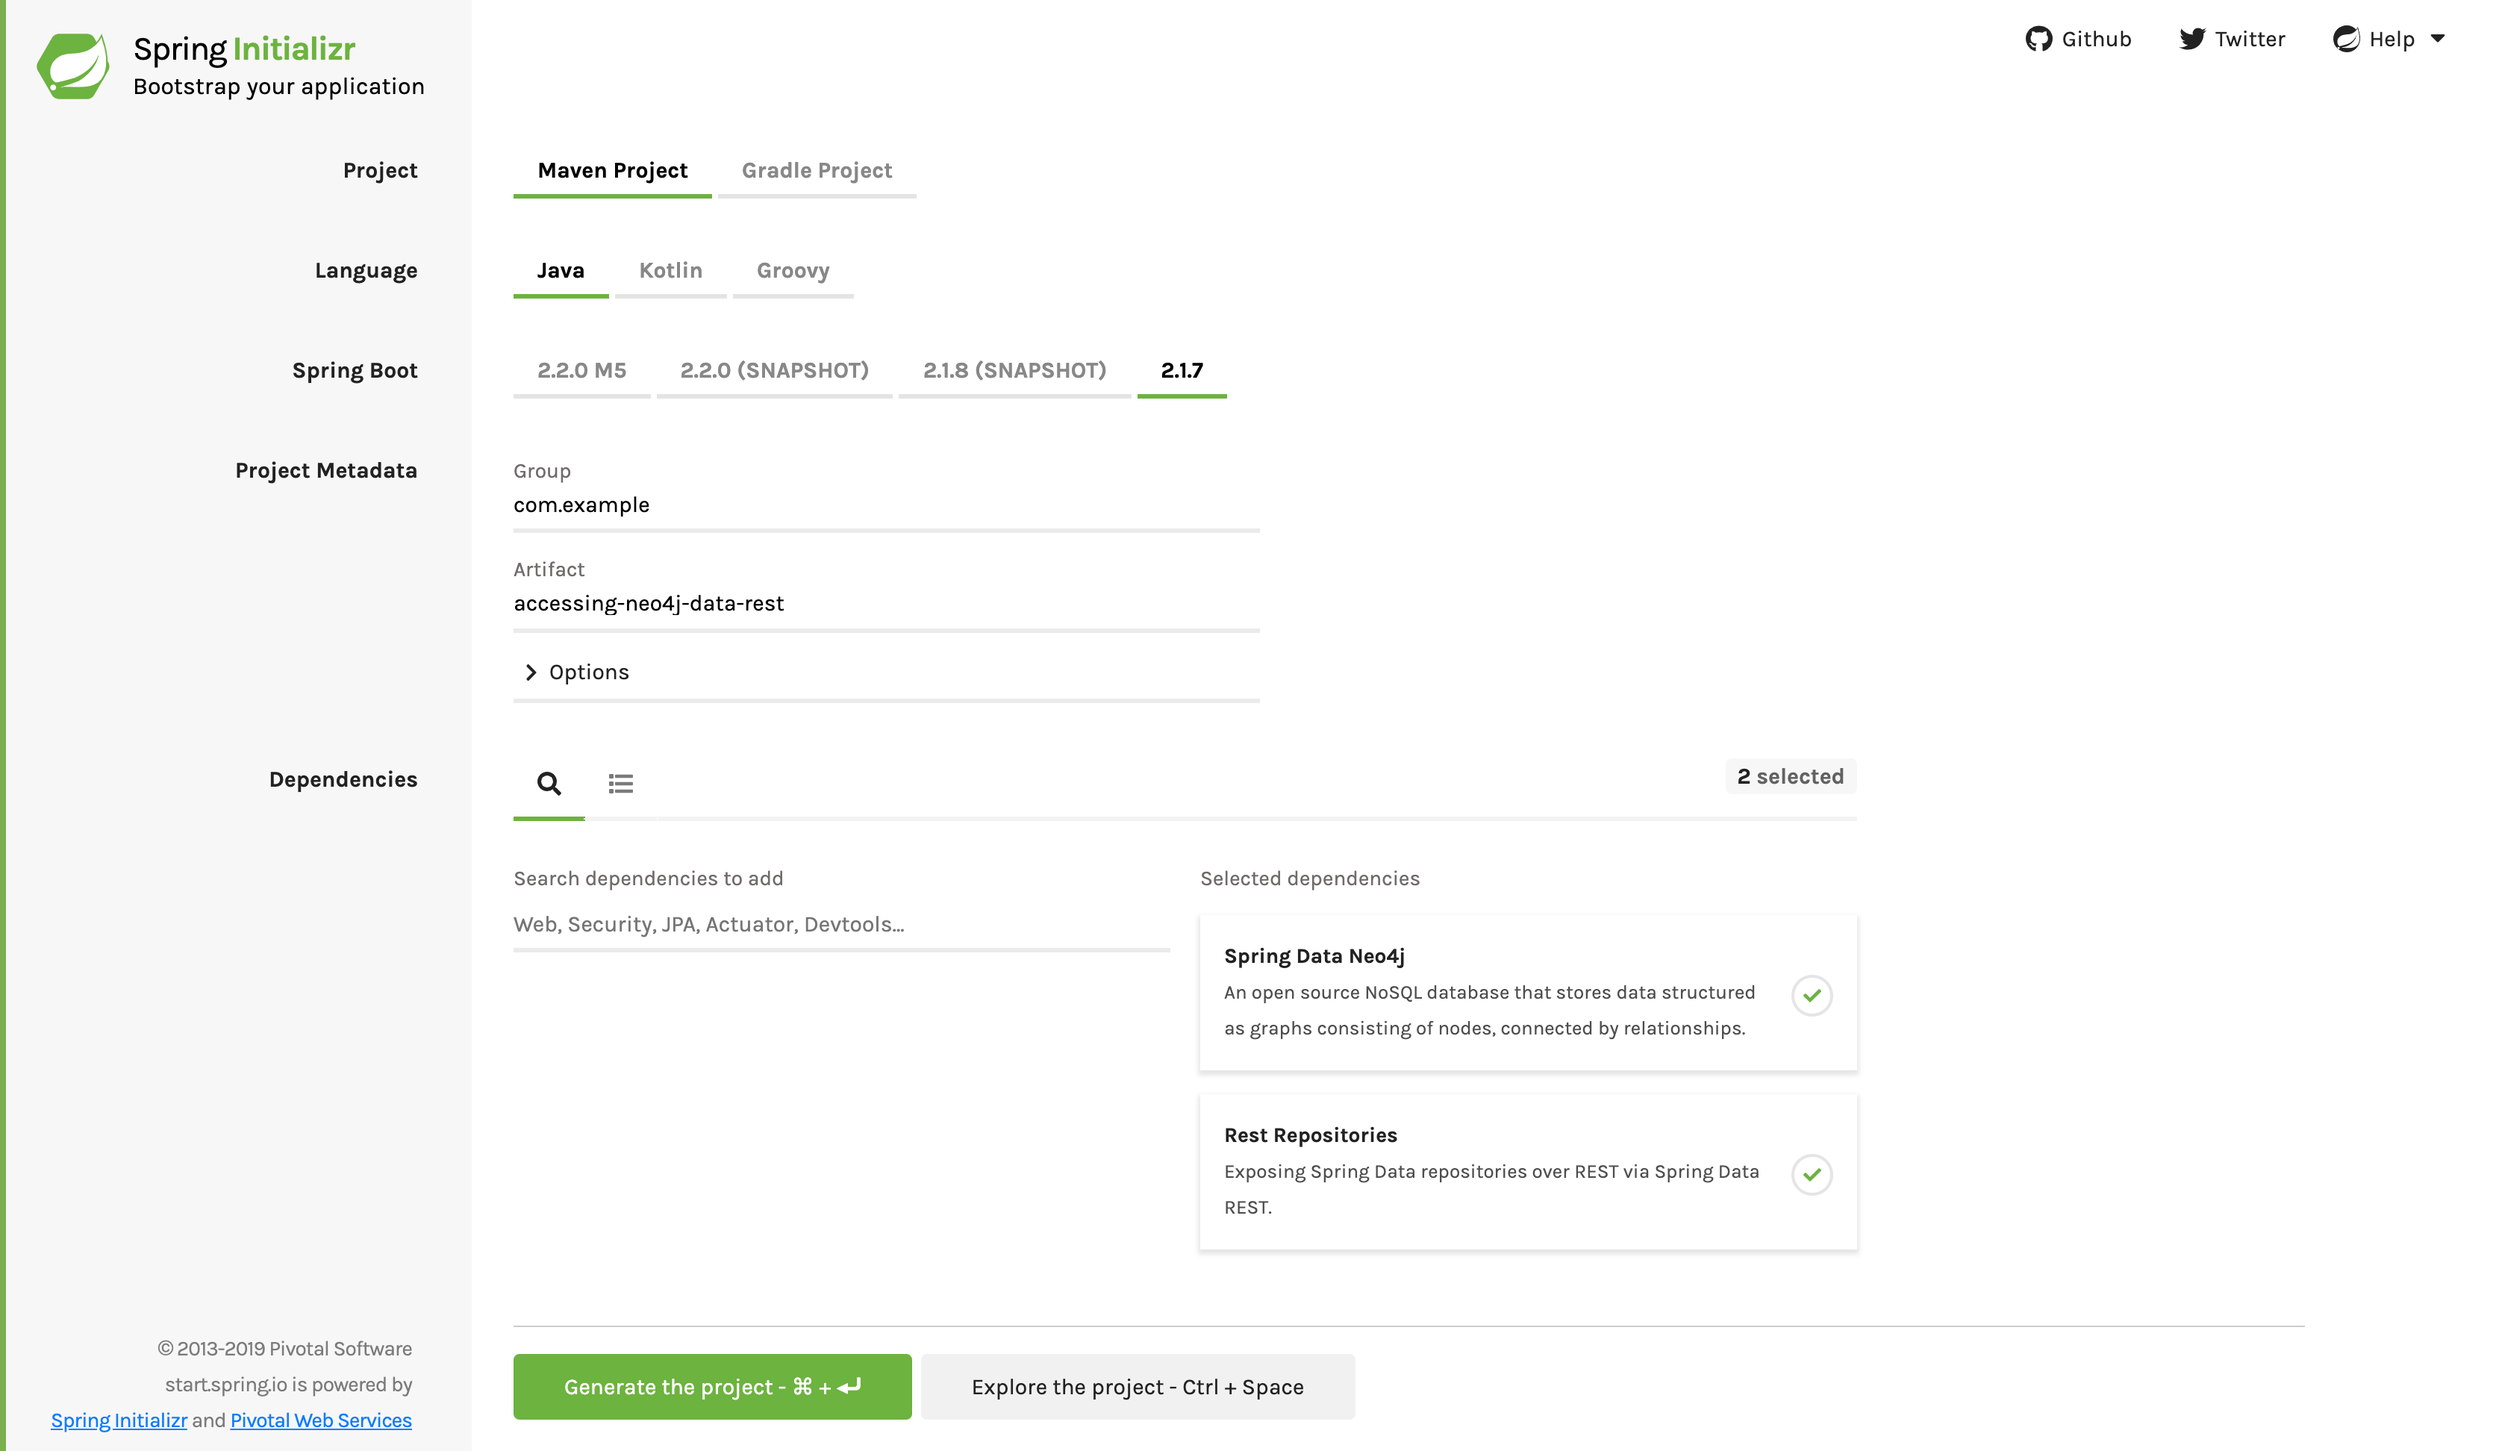
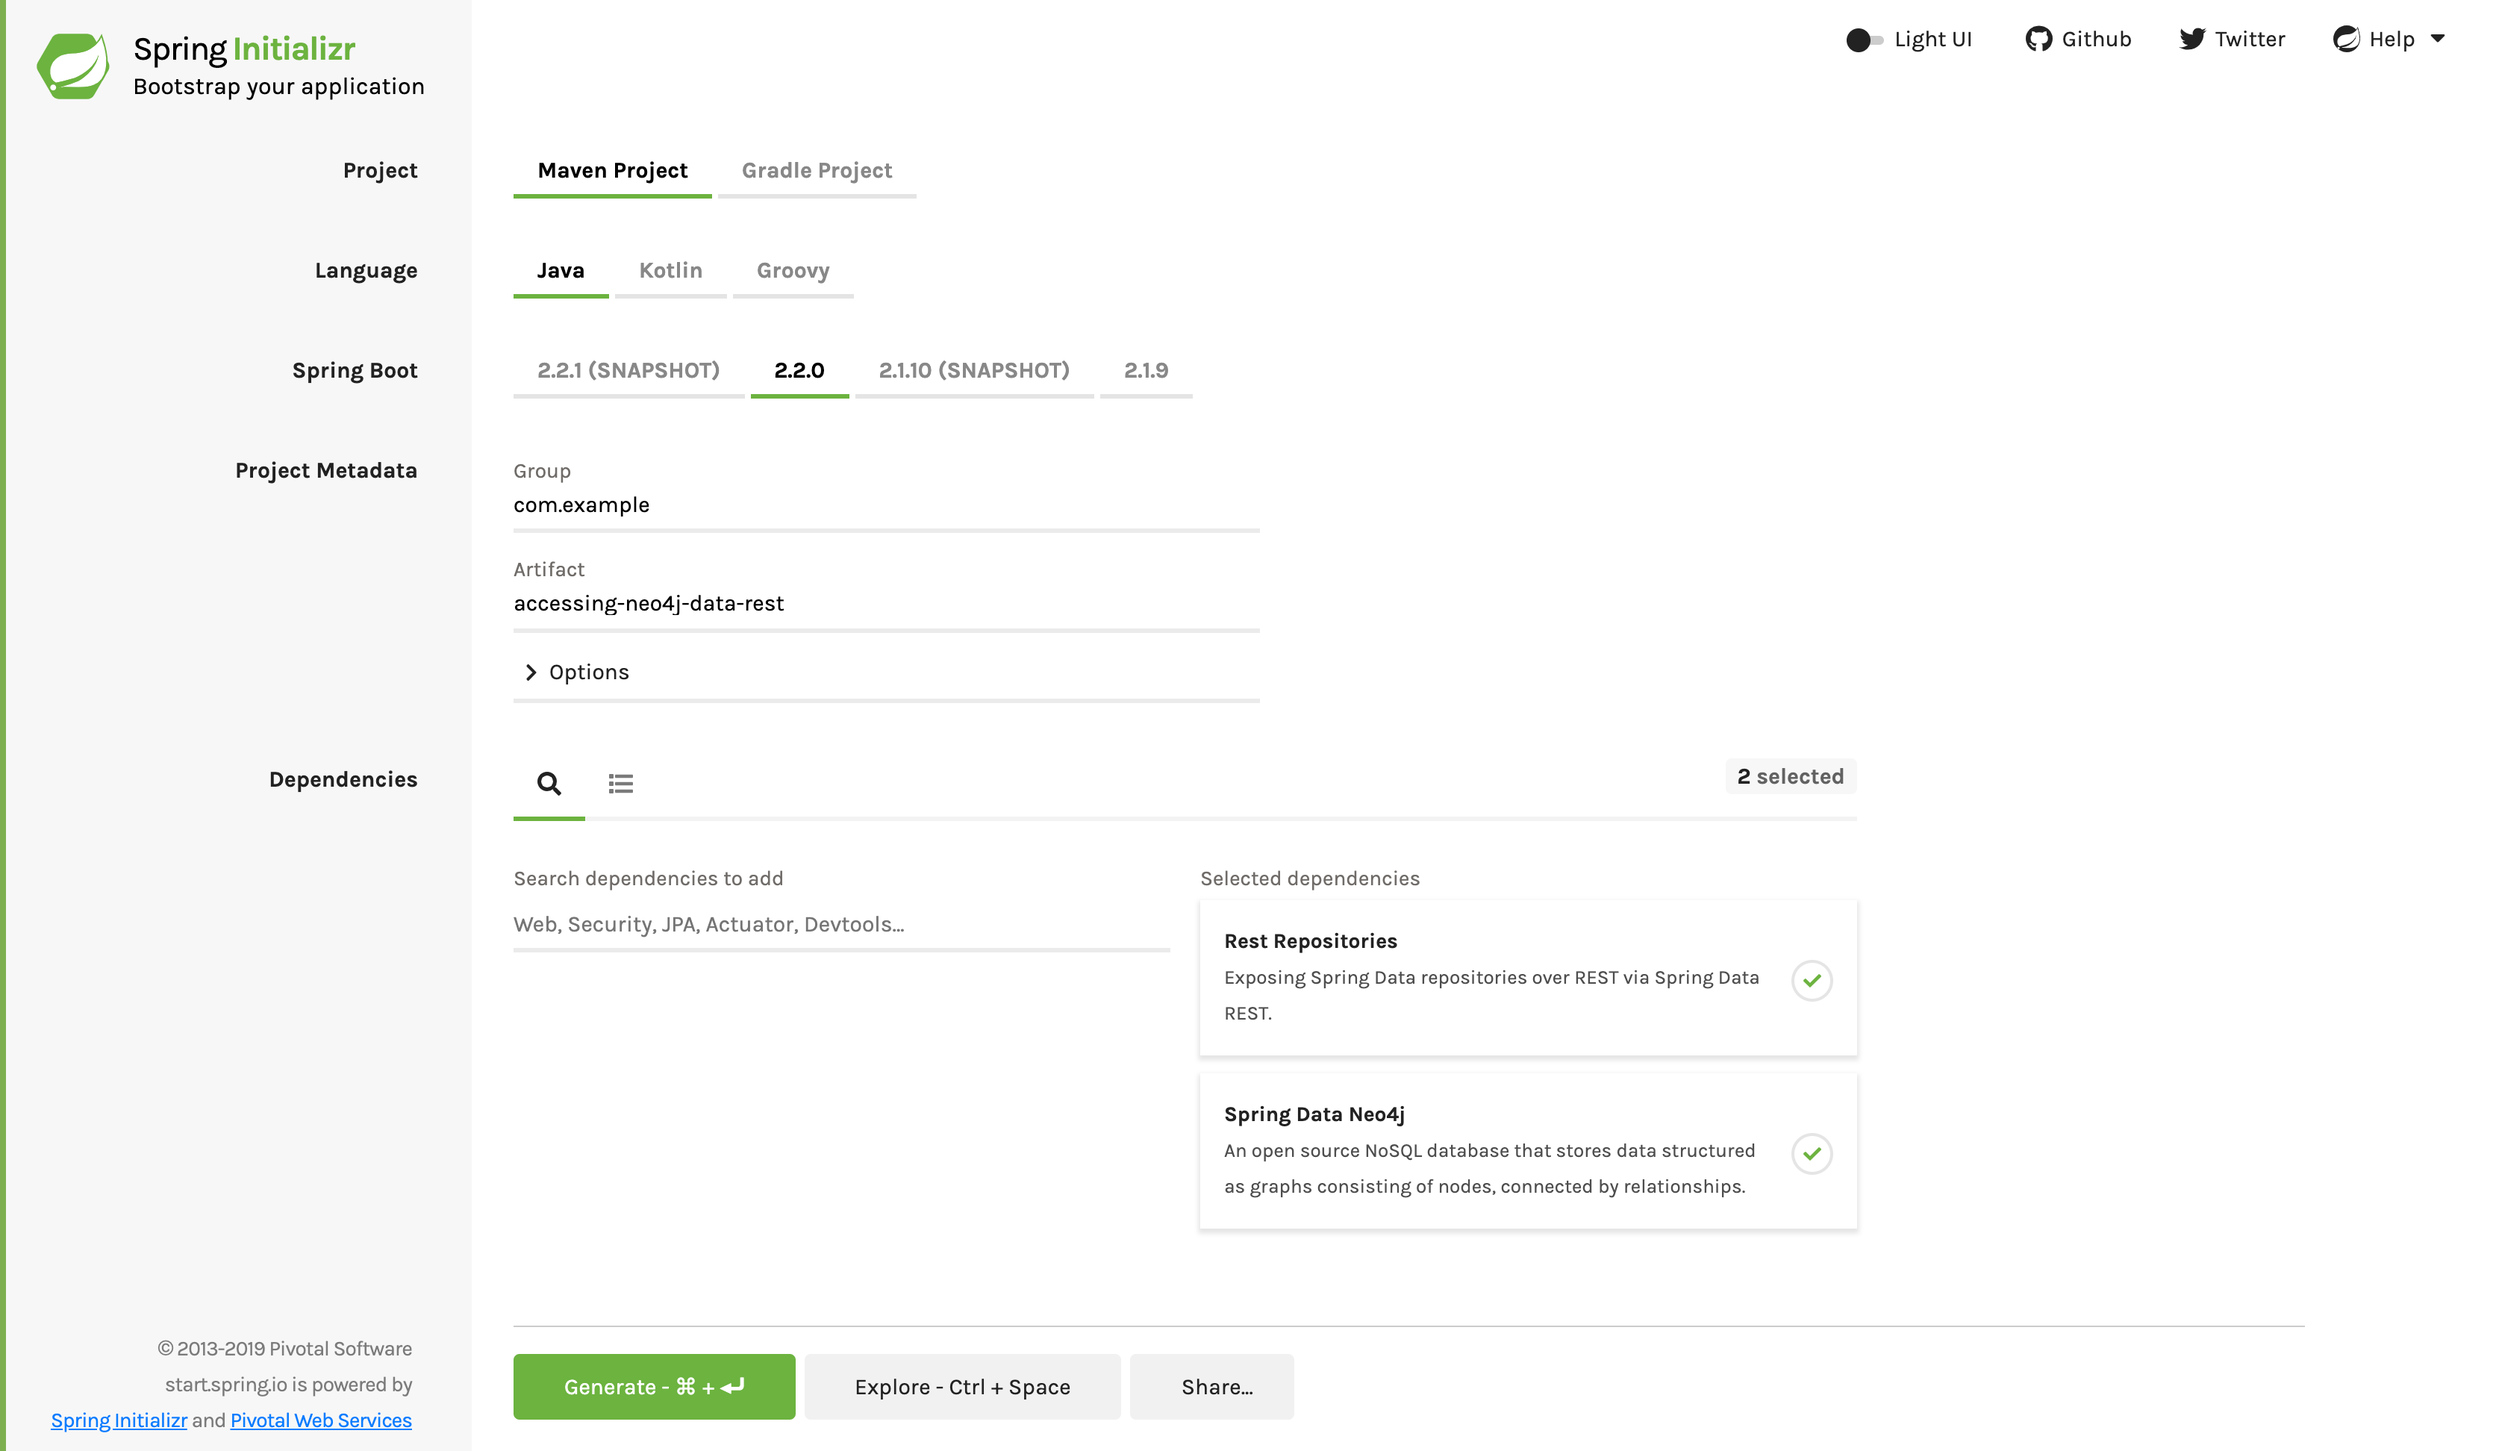
Upgrade to Spring Boot 2.2
I upgraded to Spring Boot 2.2. That required upgrading JUnit to version 5 and upgrading the Gradle wrappers.

diff --git a/complete/src/test/java/com/example/accessingneo4jdatarest/AccessingNeo4jDataRestApplicationTests.java b/complete/src/test/java/com/example/accessingneo4jdatarest/AccessingNeo4jDataRestApplicationTests.java
@@ -16,16 +16,14 @@
 
 package com.example.accessingneo4jdatarest;
 
-import org.junit.Before;
-import org.junit.Test;
-import org.junit.runner.RunWith;
+import org.junit.jupiter.api.BeforeEach;
+import org.junit.jupiter.api.Test;
 
 import org.springframework.beans.factory.annotation.Autowired;
 import org.springframework.boot.autoconfigure.data.neo4j.Neo4jDataAutoConfiguration;
 import org.springframework.boot.test.autoconfigure.web.servlet.AutoConfigureMockMvc;
 import org.springframework.boot.test.context.SpringBootTest;
 import org.springframework.context.annotation.Import;
-import org.springframework.test.context.junit4.SpringRunner;
 import org.springframework.test.web.servlet.MockMvc;
 import org.springframework.test.web.servlet.MvcResult;
 
@@ -34,7 +32,6 @@ import static org.springframework.test.web.servlet.request.MockMvcRequestBuilder
 import static org.springframework.test.web.servlet.result.MockMvcResultHandlers.*;
 import static org.springframework.test.web.servlet.result.MockMvcResultMatchers.*;
 
-@RunWith(SpringRunner.class)
 @SpringBootTest
 @AutoConfigureMockMvc
 @Import(Neo4jDataAutoConfiguration.class)
@@ -46,7 +43,7 @@ public class AccessingNeo4jDataRestApplicationTests {
 	@Autowired
 	private PersonRepository personRepository;
 
-	@Before
+	@BeforeEach
 	public void deleteAllBeforeTests() throws Exception {
 		personRepository.deleteAll();
 	}

diff --git a/initial/src/test/java/com/example/accessingneo4jdatarest/AccessingNeo4jDataRestApplicationTests.java b/initial/src/test/java/com/example/accessingneo4jdatarest/AccessingNeo4jDataRestApplicationTests.java
@@ -1,0 +1,13 @@
+package com.example.accessingneo4jdatarest;
+
+import org.junit.jupiter.api.Test;
+import org.springframework.boot.test.context.SpringBootTest;
+
+@SpringBootTest
+class AccessingNeo4jDataRestApplicationTests {
+
+	@Test
+	void contextLoads() {
+	}
+
+}
